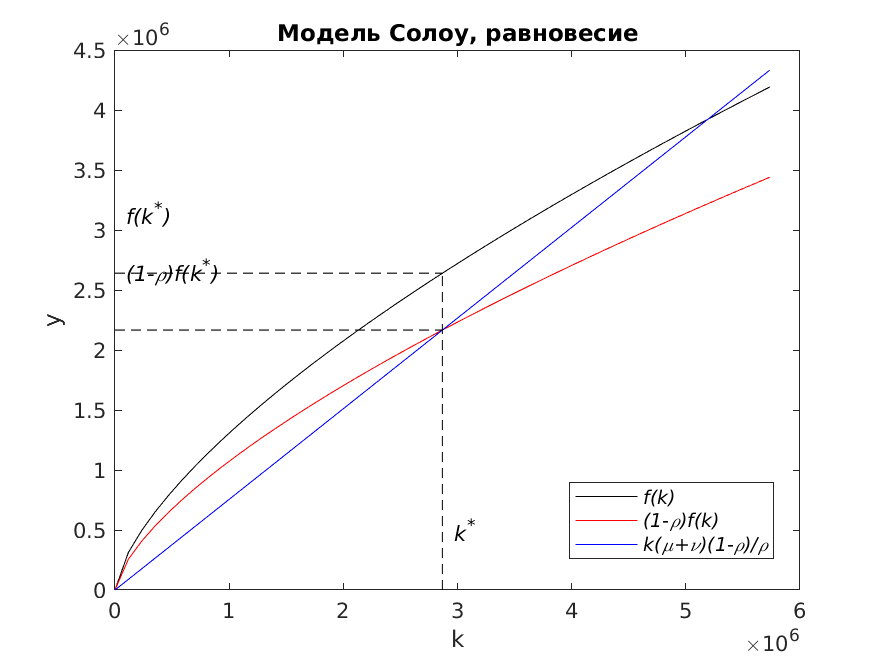
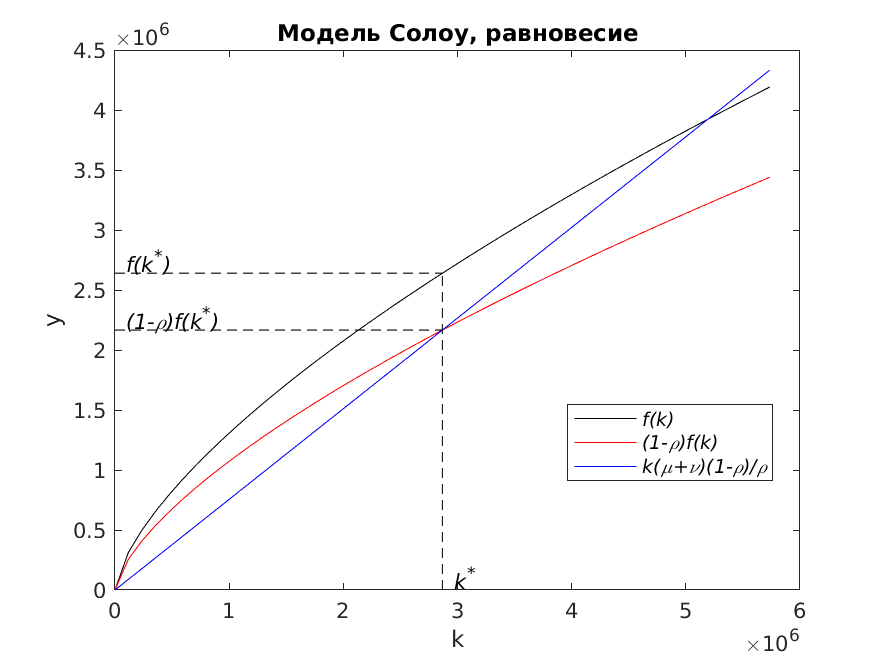
dcropts update

diff --git a/solow_model.m b/solow_model.m
@@ -113,8 +113,8 @@ err = sqrt(mean((Y_fit-Y) .^ 2)) / mean(Y)
 x0 = [0.0001, 0.0001, 0.0001];    % A, alpha_K, alpha_L
 n = length(Y);
 
-res = array2table(zeros(19, 5), 'VariableNames', {'w', 'A', 'alpha_K', ...
-    'alpha_L', 'err'});
+res = array2table(zeros(19, 5), 'VariableNames', {'tau', 'A', ...
+    'alpha_K', 'alpha_L', 'err'});
 count = 1;
 for i = 1:19
     T = @(x) CB_target(K, L, Y, x, i);
@@ -123,9 +123,9 @@ for i = 1:19
     res{count, 1} = i; res{count, 2:4} = x2; res{count, 5} = fval2;
     count = count + 1;
 end
-indx = find(res.err(2:end) - res.err(1:end-1) == ...
-    min(res.err(2:end) - res.err(1:end-1)));
-x2 = res{indx + 1, 2:4};
+res.err = sqrt(res.err ./ (n-res.tau+1)); 
+indx = find(res.err == min(res.err));
+x2 = res{indx, 2:4}
 Y_fit = x2(1) .* K .^ x2(2) .* L .^ x2(3);
 
 % график прогноз-реализация
@@ -136,8 +136,8 @@ Y_fit = x2(1) .* K .^ x2(2) .* L .^ x2(3);
 
 hold on
 scatter(Y, Y_fit)
-legend('Модель с окном 25 наблюдений', 'Идеальный прогноз', ...
-    'Модель по всем 27 наблюдениям')
+legend('Модель по данным 2008-2016 гг.', 'Идеальный прогноз', ...
+    'Модель по данным 1990-2016 гг.')
 saveas(gcf, "~/Documents/MATLAB/plots/plot_mod_vs_fit.png");
 
 
@@ -195,7 +195,7 @@ plot(x0, y0, 'k', x0, y1, 'r', x0, y2, 'b', ...
 xlabel('k'); ylabel('y'); title('Модель Солоу, равновесие');
 legend({'\it{f(k)}', '\it{(1-\rho)f(k)}', '\it{k(\mu+\nu)(1-\rho)/\rho}'});
 text([0, 0, v0{1, 'k'}] + 10^5, ...
-    [v0{1, 'y'}, v0{1, 'y'} * (1-rho), 0] + 10^6/2, ...
+    [v0{1, 'y'}, v0{1, 'y'} * (1-rho), 0] + 10^5, ...
     {'\it{f(k^*)}', '\it{(1-\rho)f(k^*)}', '\it{k^*}'});
 saveas(gcf, "~/Documents/MATLAB/plots/plot_eq-01.png");
 
@@ -214,4 +214,7 @@ saveas(gcf, "~/Documents/MATLAB/plots/plot_eq-01.png");
 % tbl = array2table([dt.year, dt.NY_GNS_ICTR_ZS, mu_stats], 'VariableNames', ...
 %     {'год', 'rho', 'nu'});
 % writetable(tbl, "~/Documents/MATLAB/solow_param_matlab.csv", ...
+%     'Delimiter', ';');
+% %  * для результатов оптимизации (функция Кобба-Дугласа)
+% writetable(res, "~/Documents/MATLAB/solow_res_matlab.csv", ...
 %     'Delimiter', ';');
